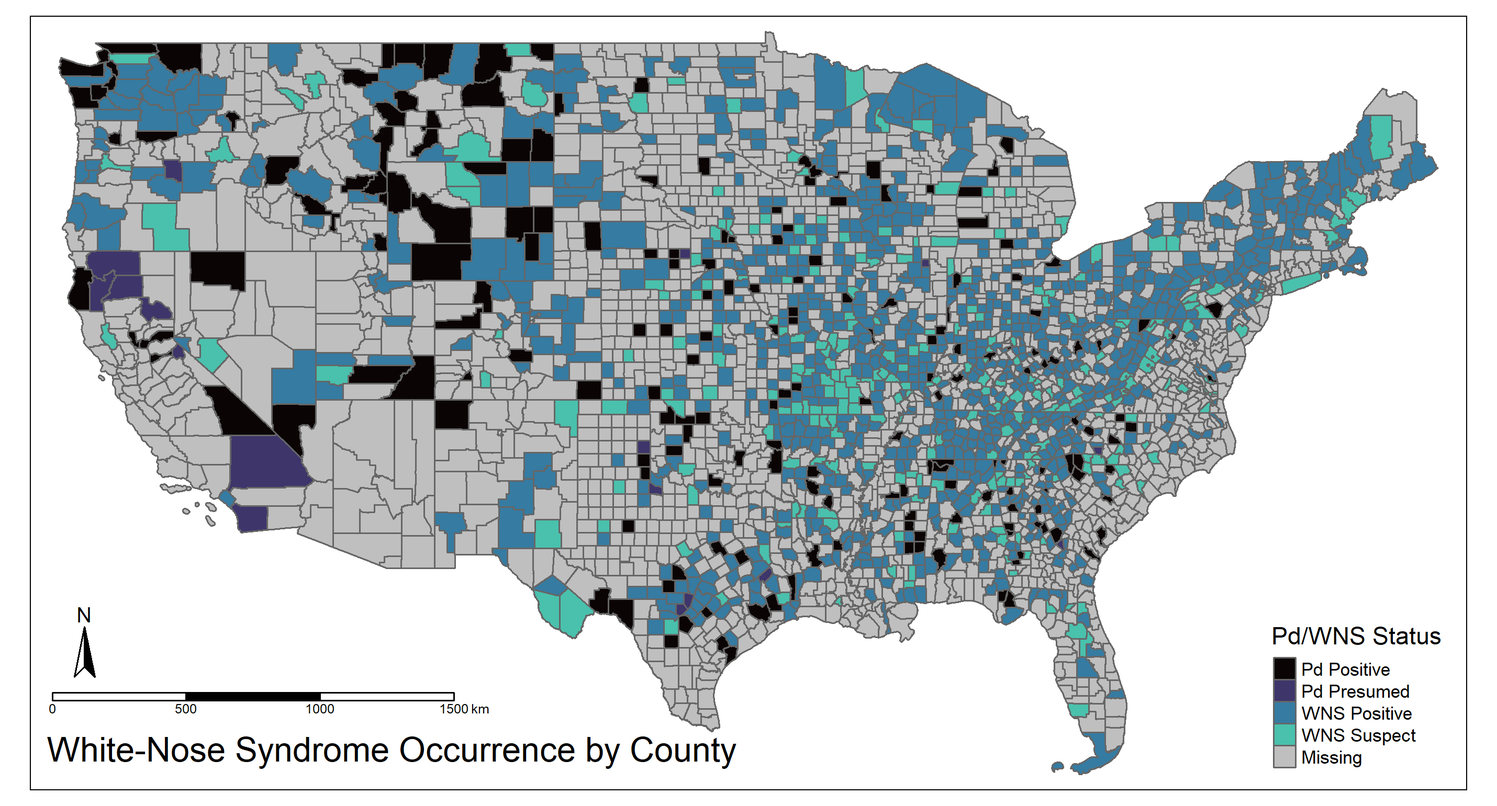
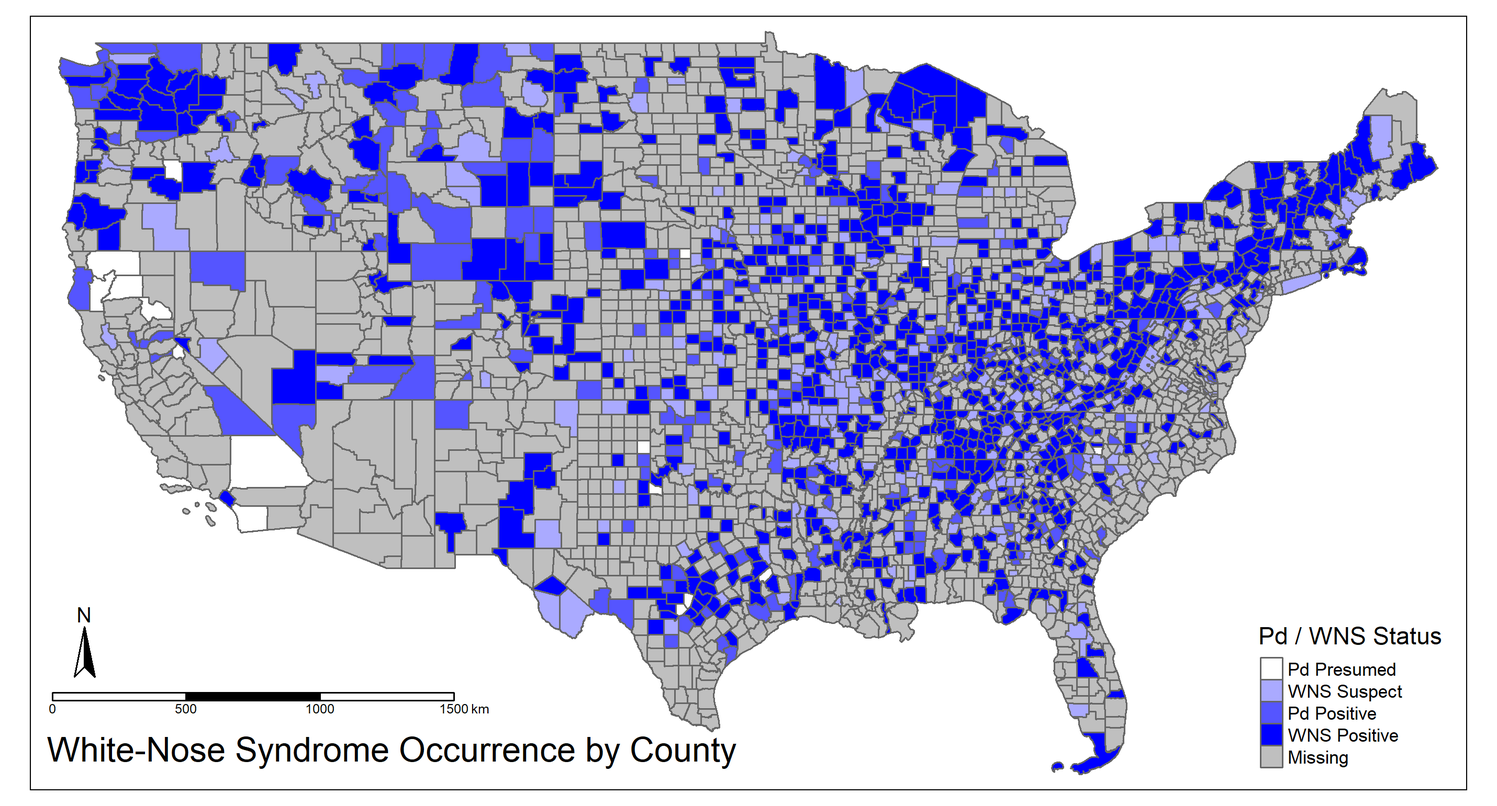
I tinkered some more :)

diff --git a/esm217-wns.html b/esm217-wns.html
@@ -7,7 +7,7 @@
 <meta name="viewport" content="width=device-width, initial-scale=1.0, user-scalable=yes">
 
 <meta name="author" content="Madi Calbert &amp; Steven Mitchell">
-<meta name="dcterms.date" content="2025-01-30">
+<meta name="dcterms.date" content="2025-02-06">
 
 <title>White-Nose Syndrome and Pesticides</title>
 <style>
@@ -81,11 +81,16 @@ pre > code.sourceCode > span > a:first-child::before { text-decoration: underlin
     <h2 id="toc-title">Table of contents</h2>
    
   <ul>
-  <li><a href="#proposal" id="toc-proposal" class="nav-link active" data-scroll-target="#proposal">Proposal</a></li>
-  <li><a href="#setup-data-exploration" id="toc-setup-data-exploration" class="nav-link" data-scroll-target="#setup-data-exploration">Setup &amp; Data Exploration</a>
+  <li><a href="#proposal" id="toc-proposal" class="nav-link active" data-scroll-target="#proposal">Proposal</a>
   <ul class="collapse">
+  <li><a href="#setup" id="toc-setup" class="nav-link" data-scroll-target="#setup">Setup</a>
+  <ul class="collapse">
+  <li><a href="#libraries" id="toc-libraries" class="nav-link" data-scroll-target="#libraries">Libraries</a></li>
+  <li><a href="#global-map-options" id="toc-global-map-options" class="nav-link" data-scroll-target="#global-map-options">Global Map Options</a></li>
+  </ul></li>
   <li><a href="#pseudomycan-destructans-and-white-nose-syndrome-detections-by-county" id="toc-pseudomycan-destructans-and-white-nose-syndrome-detections-by-county" class="nav-link" data-scroll-target="#pseudomycan-destructans-and-white-nose-syndrome-detections-by-county"><em>Pseudomycan destructans</em> and White-Nose Syndrome Detections by County</a></li>
   <li><a href="#pesticide-use-by-county" id="toc-pesticide-use-by-county" class="nav-link" data-scroll-target="#pesticide-use-by-county">Pesticide Use by County</a></li>
+  <li><a href="#wns-status-pesticide-use-by-county" id="toc-wns-status-pesticide-use-by-county" class="nav-link" data-scroll-target="#wns-status-pesticide-use-by-county">WNS Status &amp; Pesticide Use by County</a></li>
   </ul></li>
   </ul>
 </nav>
@@ -112,7 +117,7 @@ pre > code.sourceCode > span > a:first-child::before { text-decoration: underlin
     <div>
     <div class="quarto-title-meta-heading">Published</div>
     <div class="quarto-title-meta-contents">
-      <p class="date">January 30, 2025</p>
+      <p class="date">February 6, 2025</p>
     </div>
   </div>
   
@@ -133,9 +138,11 @@ pre > code.sourceCode > span > a:first-child::before { text-decoration: underlin
 <section id="proposal" class="level1">
 <h1>Proposal</h1>
 <p>We will investigate the impacts to crop production from an infectious fungal disease affecting bats.The fungus <em>Pseudogymnoascus destructans</em> causes white-nose syndrome in hibernating bats and has spread across the United States. Declining bat populations are expected to have substantial impacts on the environment, specifically agriculture. Bats eat insects that damage crops and the consumption of these insects by bats saves farmers billions of dollars in pest control services annually. We will map white-nose syndrome occurrence and pesticide use by county across the US. The white-nose syndrome data from USGS is a time series of categorical presence/absence data. The pesticide use data is a time series of continuous concentration data. We will run a linear regression to quantify the relationship between white-nose syndrome detection and pesticide use. Time allowing, we will take it a step further by incorporating public health data and run a linear regression between pesticide use and negative health outcomes.</p>
-</section>
-<section id="setup-data-exploration" class="level1">
-<h1>Setup &amp; Data Exploration</h1>
+<p>#Data Exploration</p>
+<section id="setup" class="level2">
+<h2 class="anchored" data-anchor-id="setup">Setup</h2>
+<section id="libraries" class="level3">
+<h3 class="anchored" data-anchor-id="libraries">Libraries</h3>
 <div class="cell">
 <details class="code-fold">
 <summary>Code</summary>
@@ -146,8 +153,9 @@ pre > code.sourceCode > span > a:first-child::before { text-decoration: underlin
 <span id="cb1-5"><a href="#cb1-5" aria-hidden="true" tabindex="-1"></a><span class="fu">library</span>(viridisLite)</span></code><button title="Copy to Clipboard" class="code-copy-button"><i class="bi"></i></button></pre></div>
 </details>
 </div>
-<section id="pseudomycan-destructans-and-white-nose-syndrome-detections-by-county" class="level2">
-<h2 class="anchored" data-anchor-id="pseudomycan-destructans-and-white-nose-syndrome-detections-by-county"><em>Pseudomycan destructans</em> and White-Nose Syndrome Detections by County</h2>
+</section>
+<section id="global-map-options" class="level3">
+<h3 class="anchored" data-anchor-id="global-map-options">Global Map Options</h3>
 <div class="cell">
 <details class="code-fold">
 <summary>Code</summary>
@@ -162,26 +170,38 @@ pre > code.sourceCode > span > a:first-child::before { text-decoration: underlin
 <span id="cb2-9"><a href="#cb2-9" aria-hidden="true" tabindex="-1"></a>counties <span class="ot">&lt;-</span> <span class="fu">read_sf</span>(<span class="fu">here</span>(<span class="st">"data"</span>, <span class="st">"tl_2023_us_county"</span>, <span class="st">"tl_2023_us_county.shp"</span>)) <span class="sc">%&gt;%</span> </span>
 <span id="cb2-10"><a href="#cb2-10" aria-hidden="true" tabindex="-1"></a>  <span class="fu">mutate</span>(<span class="at">county =</span> NAME)</span>
 <span id="cb2-11"><a href="#cb2-11" aria-hidden="true" tabindex="-1"></a></span>
-<span id="cb2-12"><a href="#cb2-12" aria-hidden="true" tabindex="-1"></a></span>
-<span id="cb2-13"><a href="#cb2-13" aria-hidden="true" tabindex="-1"></a><span class="co"># load WNS status by county data</span></span>
-<span id="cb2-14"><a href="#cb2-14" aria-hidden="true" tabindex="-1"></a>wns <span class="ot">&lt;-</span> <span class="fu">read_sf</span>(<span class="fu">here</span>(<span class="st">"data"</span>, <span class="st">"wns_county_status"</span>, <span class="st">"wns_county_status.csv"</span>))</span>
-<span id="cb2-15"><a href="#cb2-15" aria-hidden="true" tabindex="-1"></a></span>
-<span id="cb2-16"><a href="#cb2-16" aria-hidden="true" tabindex="-1"></a><span class="co"># join them</span></span>
-<span id="cb2-17"><a href="#cb2-17" aria-hidden="true" tabindex="-1"></a>wns_counties <span class="ot">&lt;-</span> <span class="fu">left_join</span>(counties, wns, <span class="at">by =</span> <span class="st">"county"</span>) <span class="sc">%&gt;%</span> </span>
-<span id="cb2-18"><a href="#cb2-18" aria-hidden="true" tabindex="-1"></a>  <span class="fu">mutate</span>(<span class="at">determination =</span> <span class="fu">as.factor</span>(determination))</span>
-<span id="cb2-19"><a href="#cb2-19" aria-hidden="true" tabindex="-1"></a></span>
-<span id="cb2-20"><a href="#cb2-20" aria-hidden="true" tabindex="-1"></a><span class="co"># Exploratory WNS-by-County Map</span></span>
-<span id="cb2-21"><a href="#cb2-21" aria-hidden="true" tabindex="-1"></a>map_wns_counties <span class="ot">&lt;-</span> <span class="fu">tm_shape</span>(wns_counties, <span class="at">bbox =</span> bbox)<span class="sc">+</span></span>
-<span id="cb2-22"><a href="#cb2-22" aria-hidden="true" tabindex="-1"></a>  <span class="fu">tm_polygons</span>(<span class="at">col =</span> <span class="st">"determination"</span>,</span>
-<span id="cb2-23"><a href="#cb2-23" aria-hidden="true" tabindex="-1"></a>              <span class="at">palette =</span> <span class="fu">mako</span>(<span class="dv">5</span>),</span>
-<span id="cb2-24"><a href="#cb2-24" aria-hidden="true" tabindex="-1"></a>              <span class="at">title =</span> <span class="st">"Pd/WNS Status"</span>)<span class="sc">+</span></span>
-<span id="cb2-25"><a href="#cb2-25" aria-hidden="true" tabindex="-1"></a>  <span class="fu">tm_compass</span>(<span class="at">position =</span> <span class="fu">c</span>(<span class="st">"left"</span>, <span class="st">"bottom"</span>))<span class="sc">+</span></span>
-<span id="cb2-26"><a href="#cb2-26" aria-hidden="true" tabindex="-1"></a>  <span class="fu">tm_scale_bar</span>(<span class="at">position =</span> <span class="fu">c</span>(<span class="st">"left"</span>, <span class="st">"bottom"</span>))<span class="sc">+</span></span>
-<span id="cb2-27"><a href="#cb2-27" aria-hidden="true" tabindex="-1"></a>  <span class="fu">tm_layout</span>(<span class="at">title =</span> <span class="st">"White-Nose Syndrome Occurrence by County"</span>,</span>
-<span id="cb2-28"><a href="#cb2-28" aria-hidden="true" tabindex="-1"></a>            <span class="at">title.position =</span> <span class="fu">c</span>(<span class="st">"left"</span>, <span class="st">"bottom"</span>),</span>
-<span id="cb2-29"><a href="#cb2-29" aria-hidden="true" tabindex="-1"></a>            <span class="at">legend.position =</span> <span class="fu">c</span>(<span class="st">"right"</span>, <span class="st">"bottom"</span>))</span>
-<span id="cb2-30"><a href="#cb2-30" aria-hidden="true" tabindex="-1"></a></span>
-<span id="cb2-31"><a href="#cb2-31" aria-hidden="true" tabindex="-1"></a><span class="fu">tmap_save</span>(map_wns_counties, <span class="fu">here</span>(<span class="st">"outputs"</span>, <span class="st">"map_wns_counties.png"</span>))</span></code><button title="Copy to Clipboard" class="code-copy-button"><i class="bi"></i></button></pre></div>
+<span id="cb2-12"><a href="#cb2-12" aria-hidden="true" tabindex="-1"></a><span class="co"># Define  color palettes</span></span>
+<span id="cb2-13"><a href="#cb2-13" aria-hidden="true" tabindex="-1"></a>wns_palette <span class="ot">&lt;-</span> <span class="fu">c</span>(<span class="st">"white"</span>, <span class="st">"blue"</span>)</span>
+<span id="cb2-14"><a href="#cb2-14" aria-hidden="true" tabindex="-1"></a>pesticide_palette <span class="ot">&lt;-</span> <span class="fu">c</span>(<span class="st">"white"</span>, <span class="st">"red"</span>)  </span></code><button title="Copy to Clipboard" class="code-copy-button"><i class="bi"></i></button></pre></div>
+</details>
+</div>
+</section>
+</section>
+<section id="pseudomycan-destructans-and-white-nose-syndrome-detections-by-county" class="level2">
+<h2 class="anchored" data-anchor-id="pseudomycan-destructans-and-white-nose-syndrome-detections-by-county"><em>Pseudomycan destructans</em> and White-Nose Syndrome Detections by County</h2>
+<div class="cell">
+<details class="code-fold">
+<summary>Code</summary>
+<div class="sourceCode cell-code" id="cb3"><pre class="sourceCode r code-with-copy"><code class="sourceCode r"><span id="cb3-1"><a href="#cb3-1" aria-hidden="true" tabindex="-1"></a><span class="co"># load WNS status by county data</span></span>
+<span id="cb3-2"><a href="#cb3-2" aria-hidden="true" tabindex="-1"></a>wns <span class="ot">&lt;-</span> <span class="fu">read_sf</span>(<span class="fu">here</span>(<span class="st">"data"</span>, <span class="st">"wns_county_status"</span>, <span class="st">"wns_county_status.csv"</span>))</span>
+<span id="cb3-3"><a href="#cb3-3" aria-hidden="true" tabindex="-1"></a></span>
+<span id="cb3-4"><a href="#cb3-4" aria-hidden="true" tabindex="-1"></a><span class="co"># join them</span></span>
+<span id="cb3-5"><a href="#cb3-5" aria-hidden="true" tabindex="-1"></a>wns_counties <span class="ot">&lt;-</span> <span class="fu">left_join</span>(counties, wns, <span class="at">by =</span> <span class="st">"county"</span>) <span class="sc">%&gt;%</span> </span>
+<span id="cb3-6"><a href="#cb3-6" aria-hidden="true" tabindex="-1"></a>  <span class="fu">mutate</span>(<span class="at">determination =</span> <span class="fu">factor</span>(determination, <span class="at">levels =</span> <span class="fu">c</span>(<span class="st">"Pd Presumed"</span>, <span class="st">"WNS Suspect"</span>, <span class="st">"Pd Positive"</span>, <span class="st">"WNS Positive"</span>)))</span>
+<span id="cb3-7"><a href="#cb3-7" aria-hidden="true" tabindex="-1"></a></span>
+<span id="cb3-8"><a href="#cb3-8" aria-hidden="true" tabindex="-1"></a><span class="co"># Exploratory WNS-by-County Map</span></span>
+<span id="cb3-9"><a href="#cb3-9" aria-hidden="true" tabindex="-1"></a>map_wns_counties <span class="ot">&lt;-</span> <span class="fu">tm_shape</span>(wns_counties, <span class="at">bbox =</span> bbox)<span class="sc">+</span></span>
+<span id="cb3-10"><a href="#cb3-10" aria-hidden="true" tabindex="-1"></a>  <span class="fu">tm_polygons</span>(<span class="at">col =</span> <span class="st">"determination"</span>,</span>
+<span id="cb3-11"><a href="#cb3-11" aria-hidden="true" tabindex="-1"></a>              <span class="at">palette =</span> wns_palette,</span>
+<span id="cb3-12"><a href="#cb3-12" aria-hidden="true" tabindex="-1"></a>              <span class="at">NA.col =</span> <span class="st">"white"</span>,</span>
+<span id="cb3-13"><a href="#cb3-13" aria-hidden="true" tabindex="-1"></a>              <span class="at">title =</span> <span class="st">"Pd / WNS Status"</span>)<span class="sc">+</span></span>
+<span id="cb3-14"><a href="#cb3-14" aria-hidden="true" tabindex="-1"></a>  <span class="fu">tm_compass</span>(<span class="at">position =</span> <span class="fu">c</span>(<span class="st">"left"</span>, <span class="st">"bottom"</span>))<span class="sc">+</span></span>
+<span id="cb3-15"><a href="#cb3-15" aria-hidden="true" tabindex="-1"></a>  <span class="fu">tm_scale_bar</span>(<span class="at">position =</span> <span class="fu">c</span>(<span class="st">"left"</span>, <span class="st">"bottom"</span>))<span class="sc">+</span></span>
+<span id="cb3-16"><a href="#cb3-16" aria-hidden="true" tabindex="-1"></a>  <span class="fu">tm_layout</span>(<span class="at">title =</span> <span class="st">"White-Nose Syndrome Occurrence by County"</span>,</span>
+<span id="cb3-17"><a href="#cb3-17" aria-hidden="true" tabindex="-1"></a>            <span class="at">title.position =</span> <span class="fu">c</span>(<span class="st">"left"</span>, <span class="st">"bottom"</span>),</span>
+<span id="cb3-18"><a href="#cb3-18" aria-hidden="true" tabindex="-1"></a>            <span class="at">legend.position =</span> <span class="fu">c</span>(<span class="st">"right"</span>, <span class="st">"bottom"</span>))</span>
+<span id="cb3-19"><a href="#cb3-19" aria-hidden="true" tabindex="-1"></a></span>
+<span id="cb3-20"><a href="#cb3-20" aria-hidden="true" tabindex="-1"></a><span class="fu">tmap_save</span>(map_wns_counties, <span class="fu">here</span>(<span class="st">"outputs"</span>, <span class="st">"map_wns_counties.png"</span>))</span></code><button title="Copy to Clipboard" class="code-copy-button"><i class="bi"></i></button></pre></div>
 </details>
 </div>
 <p><img src="outputs/map_wns_counties.png" class="img-fluid"></p>
@@ -191,18 +211,78 @@ pre > code.sourceCode > span > a:first-child::before { text-decoration: underlin
 <div class="cell">
 <details class="code-fold">
 <summary>Code</summary>
-<div class="sourceCode cell-code" id="cb3"><pre class="sourceCode r code-with-copy"><code class="sourceCode r"><span id="cb3-1"><a href="#cb3-1" aria-hidden="true" tabindex="-1"></a>pesticides <span class="ot">&lt;-</span> <span class="fu">read_csv</span>(<span class="fu">here</span>(<span class="st">"data"</span>, <span class="st">"2013_2017_pesticides"</span>, <span class="st">"EPest_county_estimates_2013_2017_v2.csv"</span>)) <span class="sc">%&gt;%</span> </span>
-<span id="cb3-2"><a href="#cb3-2" aria-hidden="true" tabindex="-1"></a>  <span class="fu">mutate</span>(<span class="at">COUNTYFP =</span> <span class="fu">as.character</span>(COUNTY_FIPS_CODE)) <span class="sc">%&gt;%</span> </span>
-<span id="cb3-3"><a href="#cb3-3" aria-hidden="true" tabindex="-1"></a>  <span class="fu">group_by</span>(COMPOUND)</span>
-<span id="cb3-4"><a href="#cb3-4" aria-hidden="true" tabindex="-1"></a></span>
-<span id="cb3-5"><a href="#cb3-5" aria-hidden="true" tabindex="-1"></a>wns_pesticides <span class="ot">&lt;-</span> <span class="fu">left_join</span>(wns_counties, pesticides, <span class="at">by =</span> <span class="st">"COUNTYFP"</span>)</span>
-<span id="cb3-6"><a href="#cb3-6" aria-hidden="true" tabindex="-1"></a></span>
-<span id="cb3-7"><a href="#cb3-7" aria-hidden="true" tabindex="-1"></a><span class="fu">tm_shape</span>(wns_pesticides)<span class="sc">+</span></span>
-<span id="cb3-8"><a href="#cb3-8" aria-hidden="true" tabindex="-1"></a>  <span class="fu">tm_polygons</span>(<span class="at">col =</span> <span class="st">"EPEST_HIGH_KG"</span>,</span>
-<span id="cb3-9"><a href="#cb3-9" aria-hidden="true" tabindex="-1"></a>              <span class="at">palette =</span> <span class="fu">mako</span>(<span class="dv">5</span>),</span>
-<span id="cb3-10"><a href="#cb3-10" aria-hidden="true" tabindex="-1"></a>              <span class="at">title =</span> <span class="st">"Pd/WNS Status"</span>)</span></code><button title="Copy to Clipboard" class="code-copy-button"><i class="bi"></i></button></pre></div>
+<div class="sourceCode cell-code" id="cb4"><pre class="sourceCode r code-with-copy"><code class="sourceCode r"><span id="cb4-1"><a href="#cb4-1" aria-hidden="true" tabindex="-1"></a>pesticides <span class="ot">&lt;-</span> <span class="fu">read_csv</span>(<span class="fu">here</span>(<span class="st">"data"</span>, <span class="st">"2013_2017_pesticides"</span>, <span class="st">"EPest_county_estimates_2013_2017_v2.csv"</span>)) <span class="sc">%&gt;%</span> </span>
+<span id="cb4-2"><a href="#cb4-2" aria-hidden="true" tabindex="-1"></a>  <span class="fu">mutate</span>(<span class="at">COUNTYFP =</span> <span class="fu">as.character</span>(COUNTY_FIPS_CODE)) <span class="sc">%&gt;%</span> </span>
+<span id="cb4-3"><a href="#cb4-3" aria-hidden="true" tabindex="-1"></a>  <span class="fu">mutate</span>(<span class="at">concentration =</span> <span class="fu">ifelse</span>(<span class="fu">is.na</span>(EPEST_HIGH_KG), </span>
+<span id="cb4-4"><a href="#cb4-4" aria-hidden="true" tabindex="-1"></a>                                EPEST_LOW_KG, EPEST_HIGH_KG)) <span class="sc">%&gt;%</span> </span>
+<span id="cb4-5"><a href="#cb4-5" aria-hidden="true" tabindex="-1"></a>  <span class="fu">group_by</span>(COUNTYFP, YEAR) <span class="sc">%&gt;%</span> </span>
+<span id="cb4-6"><a href="#cb4-6" aria-hidden="true" tabindex="-1"></a>  <span class="fu">summarise</span>(<span class="at">total_pesticides_kg =</span> <span class="fu">sum</span>(concentration, <span class="at">na.rm =</span> <span class="cn">TRUE</span>))</span>
+<span id="cb4-7"><a href="#cb4-7" aria-hidden="true" tabindex="-1"></a></span>
+<span id="cb4-8"><a href="#cb4-8" aria-hidden="true" tabindex="-1"></a><span class="co"># join them</span></span>
+<span id="cb4-9"><a href="#cb4-9" aria-hidden="true" tabindex="-1"></a>pesticides_counties <span class="ot">&lt;-</span> <span class="fu">left_join</span>(counties, pesticides, <span class="at">by =</span> <span class="st">"COUNTYFP"</span>) </span>
+<span id="cb4-10"><a href="#cb4-10" aria-hidden="true" tabindex="-1"></a></span>
+<span id="cb4-11"><a href="#cb4-11" aria-hidden="true" tabindex="-1"></a>pest_test <span class="ot">&lt;-</span> pesticides_counties <span class="sc">%&gt;%</span> </span>
+<span id="cb4-12"><a href="#cb4-12" aria-hidden="true" tabindex="-1"></a>    <span class="fu">filter</span>(YEAR <span class="sc">==</span> <span class="dv">2017</span>)</span>
+<span id="cb4-13"><a href="#cb4-13" aria-hidden="true" tabindex="-1"></a></span>
+<span id="cb4-14"><a href="#cb4-14" aria-hidden="true" tabindex="-1"></a>map_pesticides_counties <span class="ot">&lt;-</span> <span class="fu">tm_shape</span>(pesticides_counties, <span class="at">bbox =</span> bbox)<span class="sc">+</span></span>
+<span id="cb4-15"><a href="#cb4-15" aria-hidden="true" tabindex="-1"></a>  <span class="fu">tm_polygons</span>(<span class="at">col =</span> <span class="st">"total_pesticides_kg"</span>,</span>
+<span id="cb4-16"><a href="#cb4-16" aria-hidden="true" tabindex="-1"></a>              <span class="at">palette =</span> pesticide_palette,</span>
+<span id="cb4-17"><a href="#cb4-17" aria-hidden="true" tabindex="-1"></a>              <span class="at">breaks =</span> <span class="fu">quantile</span>(pesticides_counties<span class="sc">$</span>total_pesticides_kg,</span>
+<span id="cb4-18"><a href="#cb4-18" aria-hidden="true" tabindex="-1"></a>                                <span class="at">probs =</span> <span class="fu">seq</span>(<span class="dv">0</span>, <span class="dv">1</span>, <span class="at">by =</span> <span class="fl">0.10</span>), <span class="at">na.rm =</span> <span class="cn">TRUE</span>),</span>
+<span id="cb4-19"><a href="#cb4-19" aria-hidden="true" tabindex="-1"></a>              <span class="at">title =</span> <span class="st">"Total Pesticide Use (Kg)"</span>,</span>
+<span id="cb4-20"><a href="#cb4-20" aria-hidden="true" tabindex="-1"></a>              <span class="at">NA.col =</span> <span class="st">"white"</span>,</span>
+<span id="cb4-21"><a href="#cb4-21" aria-hidden="true" tabindex="-1"></a>              <span class="at">labels =</span> <span class="fu">c</span>(<span class="st">"0 - 62 K"</span>, <span class="st">"62 - 518 K"</span>, <span class="st">"518 K - 1.3 mil"</span>, <span class="st">"1.3 - 1.7 mil"</span>, </span>
+<span id="cb4-22"><a href="#cb4-22" aria-hidden="true" tabindex="-1"></a>                         <span class="st">"1.7 - 2 mil"</span>, <span class="st">"2 - 2.2 mil"</span>, <span class="st">"2.2 - 2.4 mil"</span>, </span>
+<span id="cb4-23"><a href="#cb4-23" aria-hidden="true" tabindex="-1"></a>                         <span class="st">"2.4 - 2.6 mil"</span>, <span class="st">"2.6 - 3.1 mil"</span>,<span class="st">"3.1 - 5.9 mil"</span>))<span class="sc">+</span></span>
+<span id="cb4-24"><a href="#cb4-24" aria-hidden="true" tabindex="-1"></a>  <span class="fu">tm_compass</span>(<span class="at">position =</span> <span class="fu">c</span>(<span class="st">"left"</span>, <span class="st">"bottom"</span>))<span class="sc">+</span></span>
+<span id="cb4-25"><a href="#cb4-25" aria-hidden="true" tabindex="-1"></a>  <span class="fu">tm_scale_bar</span>(<span class="at">position =</span> <span class="fu">c</span>(<span class="st">"left"</span>, <span class="st">"bottom"</span>))<span class="sc">+</span></span>
+<span id="cb4-26"><a href="#cb4-26" aria-hidden="true" tabindex="-1"></a>  <span class="fu">tm_layout</span>(<span class="at">title =</span> <span class="st">"Pesticide Use by County"</span>,</span>
+<span id="cb4-27"><a href="#cb4-27" aria-hidden="true" tabindex="-1"></a>            <span class="at">title.position =</span> <span class="fu">c</span>(<span class="st">"left"</span>, <span class="st">"bottom"</span>),</span>
+<span id="cb4-28"><a href="#cb4-28" aria-hidden="true" tabindex="-1"></a>            <span class="at">legend.position =</span> <span class="fu">c</span>(<span class="st">"right"</span>, <span class="st">"bottom"</span>))</span>
+<span id="cb4-29"><a href="#cb4-29" aria-hidden="true" tabindex="-1"></a></span>
+<span id="cb4-30"><a href="#cb4-30" aria-hidden="true" tabindex="-1"></a><span class="fu">tmap_save</span>(map_pesticides_counties, <span class="fu">here</span>(<span class="st">"outputs"</span>, <span class="st">"map_pesticides_counties.png"</span>))</span></code><button title="Copy to Clipboard" class="code-copy-button"><i class="bi"></i></button></pre></div>
 </details>
 </div>
+<p><img src="outputs/map_pesticides_counties.png" class="img-fluid"></p>
+</section>
+<section id="wns-status-pesticide-use-by-county" class="level2">
+<h2 class="anchored" data-anchor-id="wns-status-pesticide-use-by-county">WNS Status &amp; Pesticide Use by County</h2>
+<div class="cell">
+<details class="code-fold">
+<summary>Code</summary>
+<div class="sourceCode cell-code" id="cb5"><pre class="sourceCode r code-with-copy"><code class="sourceCode r"><span id="cb5-1"><a href="#cb5-1" aria-hidden="true" tabindex="-1"></a><span class="co"># join them</span></span>
+<span id="cb5-2"><a href="#cb5-2" aria-hidden="true" tabindex="-1"></a>wns_pesticides <span class="ot">&lt;-</span> <span class="fu">left_join</span>(wns_counties, pesticides, <span class="at">by =</span> <span class="st">"COUNTYFP"</span>) <span class="sc">%&gt;%</span> </span>
+<span id="cb5-3"><a href="#cb5-3" aria-hidden="true" tabindex="-1"></a>  <span class="fu">drop_na</span>(total_pesticides_kg) <span class="sc">%&gt;%</span> </span>
+<span id="cb5-4"><a href="#cb5-4" aria-hidden="true" tabindex="-1"></a>  <span class="fu">drop_na</span>(determination)</span>
+<span id="cb5-5"><a href="#cb5-5" aria-hidden="true" tabindex="-1"></a></span>
+<span id="cb5-6"><a href="#cb5-6" aria-hidden="true" tabindex="-1"></a><span class="co"># Create the map with two color layers for pesticide use and WNS</span></span>
+<span id="cb5-7"><a href="#cb5-7" aria-hidden="true" tabindex="-1"></a>map_wns_pesticides <span class="ot">&lt;-</span>   <span class="fu">tm_shape</span>(counties, <span class="at">bbox =</span> bbox)<span class="sc">+</span></span>
+<span id="cb5-8"><a href="#cb5-8" aria-hidden="true" tabindex="-1"></a>  <span class="fu">tm_polygons</span>(<span class="at">col =</span> <span class="st">"white"</span>)<span class="sc">+</span></span>
+<span id="cb5-9"><a href="#cb5-9" aria-hidden="true" tabindex="-1"></a>  <span class="fu">tm_shape</span>(wns_pesticides) <span class="sc">+</span></span>
+<span id="cb5-10"><a href="#cb5-10" aria-hidden="true" tabindex="-1"></a>  <span class="fu">tm_polygons</span>(<span class="at">col =</span> <span class="st">"total_pesticides_kg"</span>, </span>
+<span id="cb5-11"><a href="#cb5-11" aria-hidden="true" tabindex="-1"></a>              <span class="at">palette =</span> pesticide_palette,</span>
+<span id="cb5-12"><a href="#cb5-12" aria-hidden="true" tabindex="-1"></a>              <span class="at">breaks =</span> <span class="fu">quantile</span>(pesticides_counties<span class="sc">$</span>total_pesticides_kg,</span>
+<span id="cb5-13"><a href="#cb5-13" aria-hidden="true" tabindex="-1"></a>                                <span class="at">probs =</span> <span class="fu">seq</span>(<span class="dv">0</span>, <span class="dv">1</span>, <span class="at">by =</span> <span class="fl">0.10</span>), <span class="at">na.rm =</span> <span class="cn">TRUE</span>),</span>
+<span id="cb5-14"><a href="#cb5-14" aria-hidden="true" tabindex="-1"></a>              <span class="at">title =</span> <span class="st">"Total Pesticide Use (Kg)"</span>,</span>
+<span id="cb5-15"><a href="#cb5-15" aria-hidden="true" tabindex="-1"></a>              <span class="at">labels =</span> <span class="fu">c</span>(<span class="st">"0 - 62 K"</span>, <span class="st">"62 - 518 K"</span>, <span class="st">"518 K - 1.3 mil"</span>, <span class="st">"1.3 - 1.7 mil"</span>, </span>
+<span id="cb5-16"><a href="#cb5-16" aria-hidden="true" tabindex="-1"></a>                         <span class="st">"1.7 - 2 mil"</span>, <span class="st">"2 - 2.2 mil"</span>, <span class="st">"2.2 - 2.4 mil"</span>, </span>
+<span id="cb5-17"><a href="#cb5-17" aria-hidden="true" tabindex="-1"></a>                         <span class="st">"2.4 - 2.6 mil"</span>, <span class="st">"2.6 - 3.1 mil"</span>,<span class="st">"3.1 - 5.9 mil"</span>)) <span class="sc">+</span></span>
+<span id="cb5-18"><a href="#cb5-18" aria-hidden="true" tabindex="-1"></a>  <span class="fu">tm_shape</span>(wns_pesticides)<span class="sc">+</span></span>
+<span id="cb5-19"><a href="#cb5-19" aria-hidden="true" tabindex="-1"></a>  <span class="fu">tm_polygons</span>(<span class="at">col =</span> <span class="st">"determination"</span>, </span>
+<span id="cb5-20"><a href="#cb5-20" aria-hidden="true" tabindex="-1"></a>              <span class="at">palette =</span> wns_palette,      </span>
+<span id="cb5-21"><a href="#cb5-21" aria-hidden="true" tabindex="-1"></a>              <span class="at">style =</span> <span class="st">"cat"</span>,</span>
+<span id="cb5-22"><a href="#cb5-22" aria-hidden="true" tabindex="-1"></a>              <span class="at">alpha =</span> <span class="fl">0.7</span>,</span>
+<span id="cb5-23"><a href="#cb5-23" aria-hidden="true" tabindex="-1"></a>              <span class="at">title =</span> <span class="st">"WNS Determination"</span>) <span class="sc">+</span></span>
+<span id="cb5-24"><a href="#cb5-24" aria-hidden="true" tabindex="-1"></a>  <span class="fu">tm_compass</span>(<span class="at">position =</span> <span class="fu">c</span>(<span class="st">"left"</span>, <span class="st">"bottom"</span>)) <span class="sc">+</span></span>
+<span id="cb5-25"><a href="#cb5-25" aria-hidden="true" tabindex="-1"></a>  <span class="fu">tm_scale_bar</span>(<span class="at">position =</span> <span class="fu">c</span>(<span class="st">"left"</span>, <span class="st">"bottom"</span>)) <span class="sc">+</span></span>
+<span id="cb5-26"><a href="#cb5-26" aria-hidden="true" tabindex="-1"></a>  <span class="fu">tm_layout</span>(<span class="at">title =</span> <span class="st">"WNS and Pesticide Use by County"</span>,</span>
+<span id="cb5-27"><a href="#cb5-27" aria-hidden="true" tabindex="-1"></a>            <span class="at">title.position =</span> <span class="fu">c</span>(<span class="st">"left"</span>, <span class="st">"bottom"</span>),</span>
+<span id="cb5-28"><a href="#cb5-28" aria-hidden="true" tabindex="-1"></a>            <span class="at">legend.position =</span> <span class="fu">c</span>(<span class="st">"right"</span>, <span class="st">"bottom"</span>))</span>
+<span id="cb5-29"><a href="#cb5-29" aria-hidden="true" tabindex="-1"></a></span>
+<span id="cb5-30"><a href="#cb5-30" aria-hidden="true" tabindex="-1"></a><span class="fu">tmap_save</span>(map_wns_pesticides, <span class="fu">here</span>(<span class="st">"outputs"</span>, <span class="st">"map_wns_pesticides.png"</span>))</span></code><button title="Copy to Clipboard" class="code-copy-button"><i class="bi"></i></button></pre></div>
+</details>
+</div>
+<p><img src="outputs/map_wns_pesticides.png" class="img-fluid"></p>
 </section>
 </section>
 
